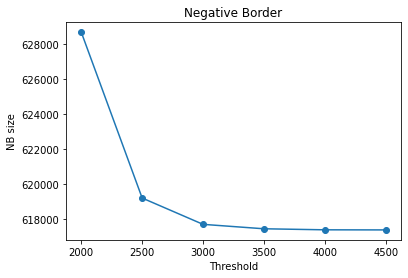
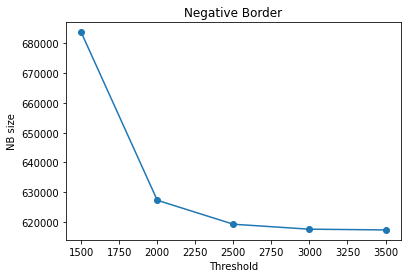
added new charts description

diff --git a/Tex/Relation.tex b/Tex/Relation.tex
@@ -181,28 +181,27 @@ In the following table are listed the execution time (last row) and the number o
  \hline
  Size & Apriori & PCY & SON apriori & SON PCY \\
  \hline
- 2 & 11144462 & 11144462 & 11144052 & 11144052\\ 
- 3 & 10011 & 33 & 708645 & 708645\\ 
- 4 & 13 & 13 & 1104 & 1104\\ 
- 5 & 2 & 2 & 554 & 554 \\
- 6 & - & - & 355 & 355 \\
- 7 & - & - & 182 & 182 \\
- 8 & - & - & 62 & 62 \\
- 9 & - & - & 12 & 12 \\
- 10 & - & - & 1 & 1 \\
+ 2 & 11144462 & 11144462 & 1311498 & 6880\\ 
+ 3 & 10011 & 33 & 2782 & 1866\\ 
+ 4 & 13 & 13 & 1297 & 1167\\ 
+ 5 & 2 & 2 & 737 & 690 \\
+ 6 & - & - & 374 & 358 \\
+ 7 & - & - & 136 & 133 \\
+ 8 & - & - & 30 & 30 \\
+ 9 & - & - & 3 & 3 \\
+ 10 & - & - & - & - \\
  \hline
- Sec & 87 & 335 & 275 & 551\\
+ Sec & 87 & 335 & 292 & 584\\
  \hline
 \end{tabular}
 \end{center}
 The number of candidates is the number of itemets of size k analyzed, created from the previous frequent itemsets of size k-1. The number of singletons is not reported since they are equal for all the algorithm.\\
 In the first pair of columns is evident the improvement given by the PCY in filtering candidates, but, on the other hand, it is evident the PCY's computation time is nearly 4 times the Apriori's one. The same time difference is evident in the two SON algorithms.\\
-WHY EQUAL PCY/APRIORI?
+
 
 \subsection{Size of candidates and times with different hash size (PCY)}
-The sequent measures are performed over a sample of 600000 baskets.\\
-The singletons are not counted, as their creation will not be affected from the PCY algorithm.\\
-The aim is to show how does the PCY work as the size of the hashmap grows.\\
+The subsequent chart shows the number of candidates found by the PCY algorithm with different hashmap sizes. It is evident that the increase of the hashmap size the number of candidates is lowered very quickly due to the decreasing probability of collisions.\\
+The sequent measures are performed over the same sample, containing 600000 baskets, the algorithms has been completed in the times reported in the table.\\
 \includegraphics[scale=1]{size_by_hsize.png}\\
 \begin{center}
 \begin{tabular}{ |c||c|c|c|c|c|c|c|c|c| } 
@@ -214,8 +213,7 @@ The aim is to show how does the PCY work as the size of the hashmap grows.\\
 \end{tabular}
 \end{center}
 \includegraphics[scale=1]{pcy_hsize_time.png}\\
-The number of candidates created drastically decrease at first time, due to the increase of position in the hashmap and the decreasing probability of collisions that creates false positive.\\
-In regard of time can be seen a raise of computing times due to the handling of the hashmap, but just a bit exchange of some seconds to obtain a very lower quantity of candidates to be compared.\\
+Regarding time, it can be seen an increment of computing times due to the handling of the hashmap, although it is just a difference of few seconds.\\
 \includegraphics[scale=1]{sonpcy_candidates.png}\\
 \begin{center}
 \hspace*{-1,5cm}
@@ -229,8 +227,10 @@ In regard of time can be seen a raise of computing times due to the handling of 
 \end{center}
 MISS SON PCY TIMING\\
 \subsection{Time at change of threshold}
-The sequent measures are performed over the same sample, containing 600000 baskets, the algorithms has been completed in the times reported in the table.\\
-Is important underline that for the SON application (both with apriori and PCY) has been saved the worst time over a node, due to the idea of parallelization of the applying an algorithm over a chunk it will not be correct count the summed amount of times.\\
+This chart and table show the time of execution of each algorithm varying the threshold. 
+The sequent measures are performed over the same sample, containing 600000 baskets.
+It is important to underline that for the SON application (with both Apriori and PCY) only the worst time over a node has been saved due to the parallelized computation.\\
+
 \includegraphics[scale=1.1]{times.png}\\
 \begin{center}
 \begin{tabular}{ |P{3cm}|P{2cm}|P{2cm}|P{2cm}|P{2cm}| } 
@@ -248,8 +248,8 @@ Is important underline that for the SON application (both with apriori and PCY) 
 \end{tabular}
 \end{center}
 \subsection{Size of negative border}
-For the Toivonen algorithm the point is to analyze the Negative border, because the extraction of frequent candidates is only an application of one of the Apriori or PCY algorithm.\\
-The size of the negative border has been collected changing the threshold, to see how big or small it would become, and to ensure that it will fit in memory\\
+Concerning the Toivonen algorithm the key point is the analysis of the Negative border, because the extraction of frequent candidates is only an application of one of the Apriori or PCY algorithm.\\
+In the following figure it is shown the negative border size variation changing the threshold using a sample of 600367 (1/6 of the total dataset): the increasing of the threshold produce a lower number of candidates and so a smaller negative border.\\
 \includegraphics[scale=1]{nb_sizes.png}\\
 \section{Results}
 {\it I/We declare that this material, which I/We now submit for assessment, is entirely my/our own work and has not been taken from the work of others, save and to the extent that such work has been cited and acknowledged within the text of my/our work. I/We understand that plagiarism, collusion, and copying are grave and serious offences in the university and accept the penalties that would be imposed should I engage in plagiarism, collusion or copying. This assignment, or any part of it, has not been previously submitted by me/us or any other person for assessment on this or any other course of study.}
